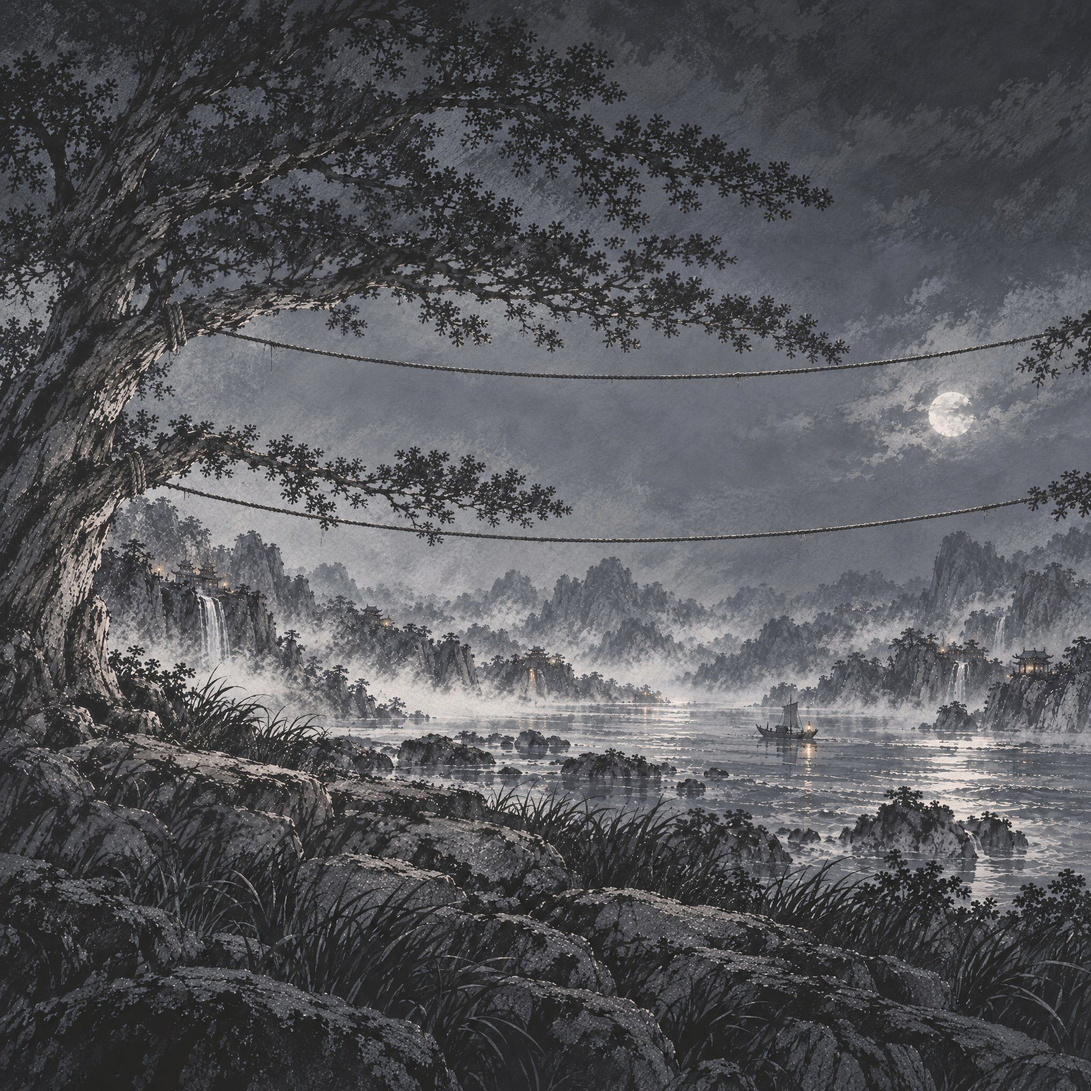
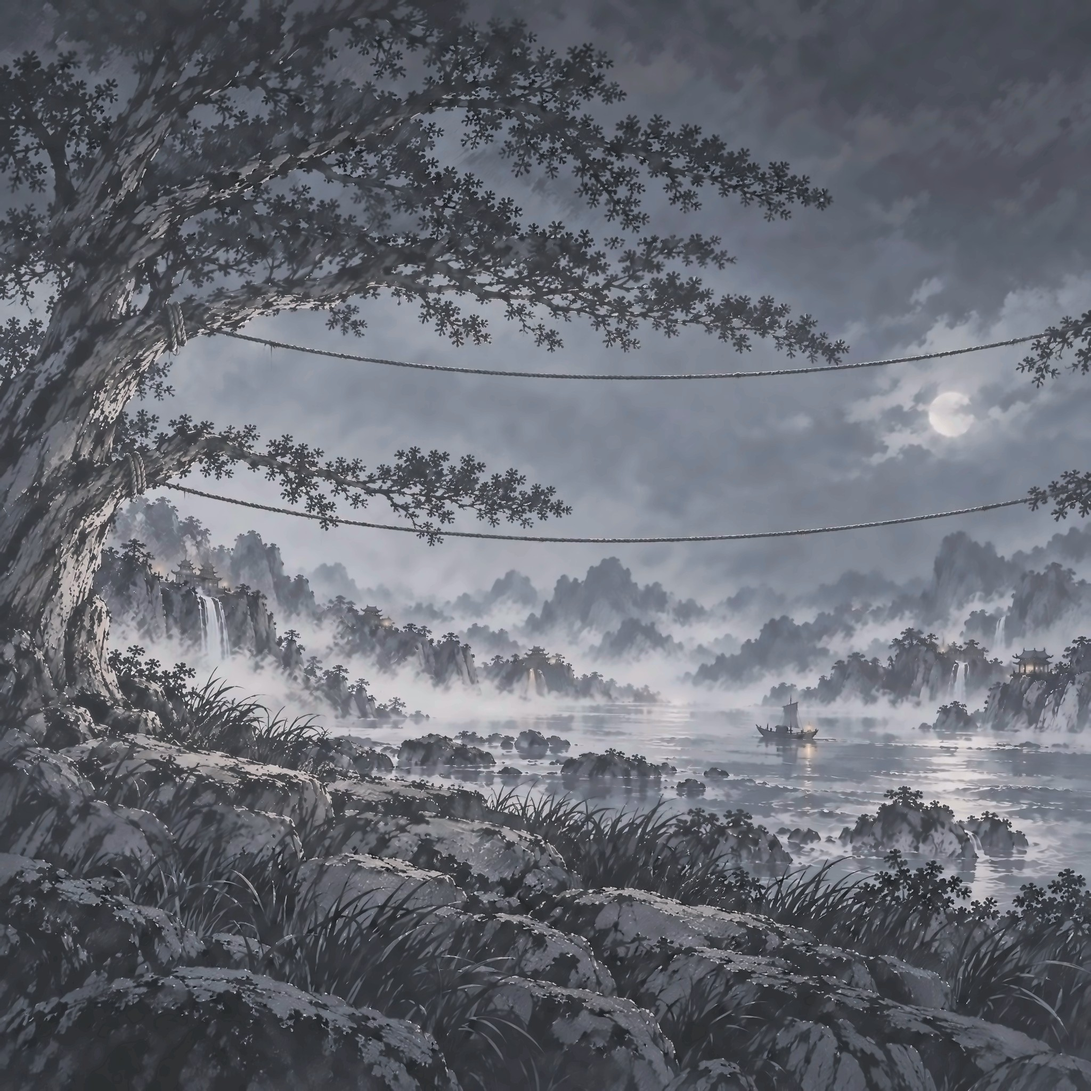
fix(art): 前尘底图调色去织纹，与行囊武功舆图统一画风

diff --git a/DESIGN.md b/DESIGN.md
@@ -415,7 +415,7 @@ components:
 - **底蕴 · 往世八相**：一幅山水里八位往世身影（力士、刀客、持杖僧、弓手、轻身女侠、刺客、剑客、坐忘道人）各对应一条底蕴。两张对齐的画——有人的实笔（`xiang-solid.jpg`）与同构图无人的空景（`xiang-empty.jpg`）——每位往世按椭圆羽化遮罩把实笔叠在空景上，**级数越高身影越实**：透明度 `0 级 0.12，其后 min(1, 0.32 + √n × 0.15)`，随之减模糊、提对比；买下一级身影闪亮一下。每人旁挂一支 AI 竹签（`diyun-slip`，`xiang-slip.png`）：竖排宋体名 → 级数大字 → 墨痕底上的现值（`band.png`）→「下一级 +y」→ 朱印价格按钮（`seal-buy`，`seal.png`，钱不够时去色半透、悬停「还差 n 声望」）。名字悬停给前世身份一句。修行感悟写在画中悬幅上，同样一枚朱印按钮。不写引导小字。
 - **机缘 · 江边挂签**：江边老树两根下垂的绳（`jiyuan.jpg`，绳形按画拟合抛物线），十四支签上下两排错开半格挂在绳上，签顶落在绳上、轻轻摇（±1°，7s）。签上只写竖排名与类型，价格是朱印按钮；效果说明在悬停。已得的签盖「得」字朱印（盖下时 0.45s 由大落定）。
 - **侠名录 · 江湖百景**：一幅江湖全景（`xiaming-map.jpg`）分四处地界，二十二枚徽记（`achv-node`）散在对应地物旁：武道九门在剑冢群峰、修行五条绕山寺、江湖四条围城关、世情四条在渡口；同类以暗金细线（虚线）串连，两端都得名的一段变实线。每处地界旁竖写地界名 + 小字「已点亮 / 满重」。徽记与名字下垫一团晕开的墨，淡雾上也读得清。悬停徽记放大，**点选**弹出 AI 水墨手卷（`achv-card`，`xiaming-card.png`）：左为放大的徽记，右三行「【当前名】当前加成」「下一重「名」加成」「解锁条件：计量 n / 门槛」；未得的只写后两行，满重的写「三重俱满」。手卷默认在徽记下方，放不下改到上方；再点、点空白或 Esc 收起。
-- **淡墨**：前尘三幅与修炼底图同战斗舆图取淡墨（平均亮度约 90–110，浓墨占比约 5%），调色烘进图里，不靠滤镜压灰。
+- **淡墨**：前尘三幅与修炼底图同战斗舆图取淡墨，调色烘进图里，不靠滤镜压灰。2026-10-30 起前尘三幅（含八相实笔）按行囊 / 武功 / 舆图对齐：平均亮度约 106–108、饱和约 11–13、偏冷蓝灰；原图上整层斜纹织理去掉，只留平滑晕染（笔触颗粒约 7–8，与参照页同口径：灰度减 2px 高斯模糊的平均绝对差，1024 宽缩图量）。
 
 ### 江湖舆图与地域分图（战斗页第一、二层）
 - 第一层：整张 AI 水墨舆图 16:9，按宽铺满侧栏右侧整个舞台（不受版心限制），上下居中；图上下各由 AI 续画一截山川云雾（`jianghu-map-tall.jpg`，原图原样嵌在中段，卷名坐标仍按中段计），铺满舞台高、顶到页面上沿；舞台偏窄时画框放大盖满高、左右最多裁 6%；左右边不羽化（同修炼、前尘），只在底边淡出，不加框。**标题、「此世行至」与返回浮在画上**（左上 34px 宋体，同修炼页、前尘页），顶部一层渐暗托字，不单独占一行。十卷标在地理位置上：圆点 + 卷名（宋体 17px）+ 「卷N · 卷题」小字；走过的卷墨金点、这一世所在的卷暖金点外发光、未开的墨浅，悬停说明怎么开。**不画连卷的驿路线**（卷序与地理不顺，连线会交叉）。

diff --git a/changelog.d/fix-qianchen-art-tone.md b/changelog.d/fix-qianchen-art-tone.md
@@ -1,0 +1,3 @@
+### 变更
+
+- **前尘底图统一画风**：底蕴、机缘、侠名录三幅底图和八相显影层调亮、减浓墨、偏冷蓝灰，并去掉原来整层的斜纹织理，看上去与行囊、武功、战斗舆图是同一种平滑淡墨晕染；构图与各元素位置不变。
